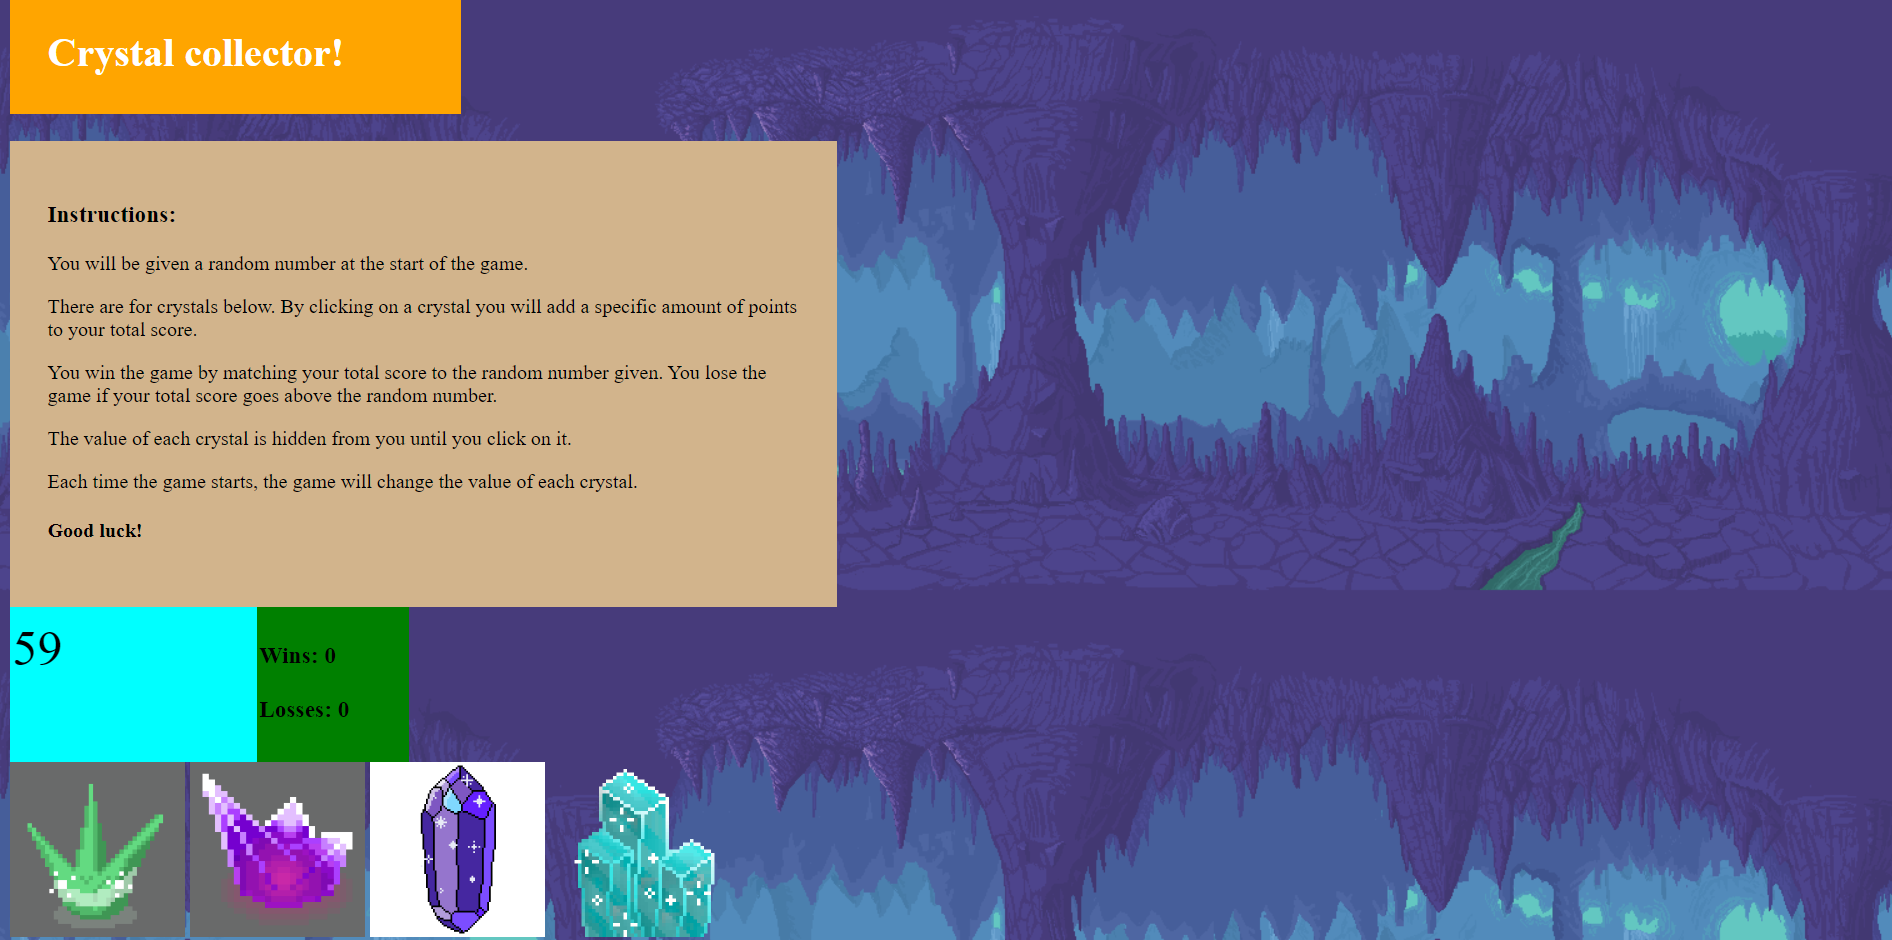
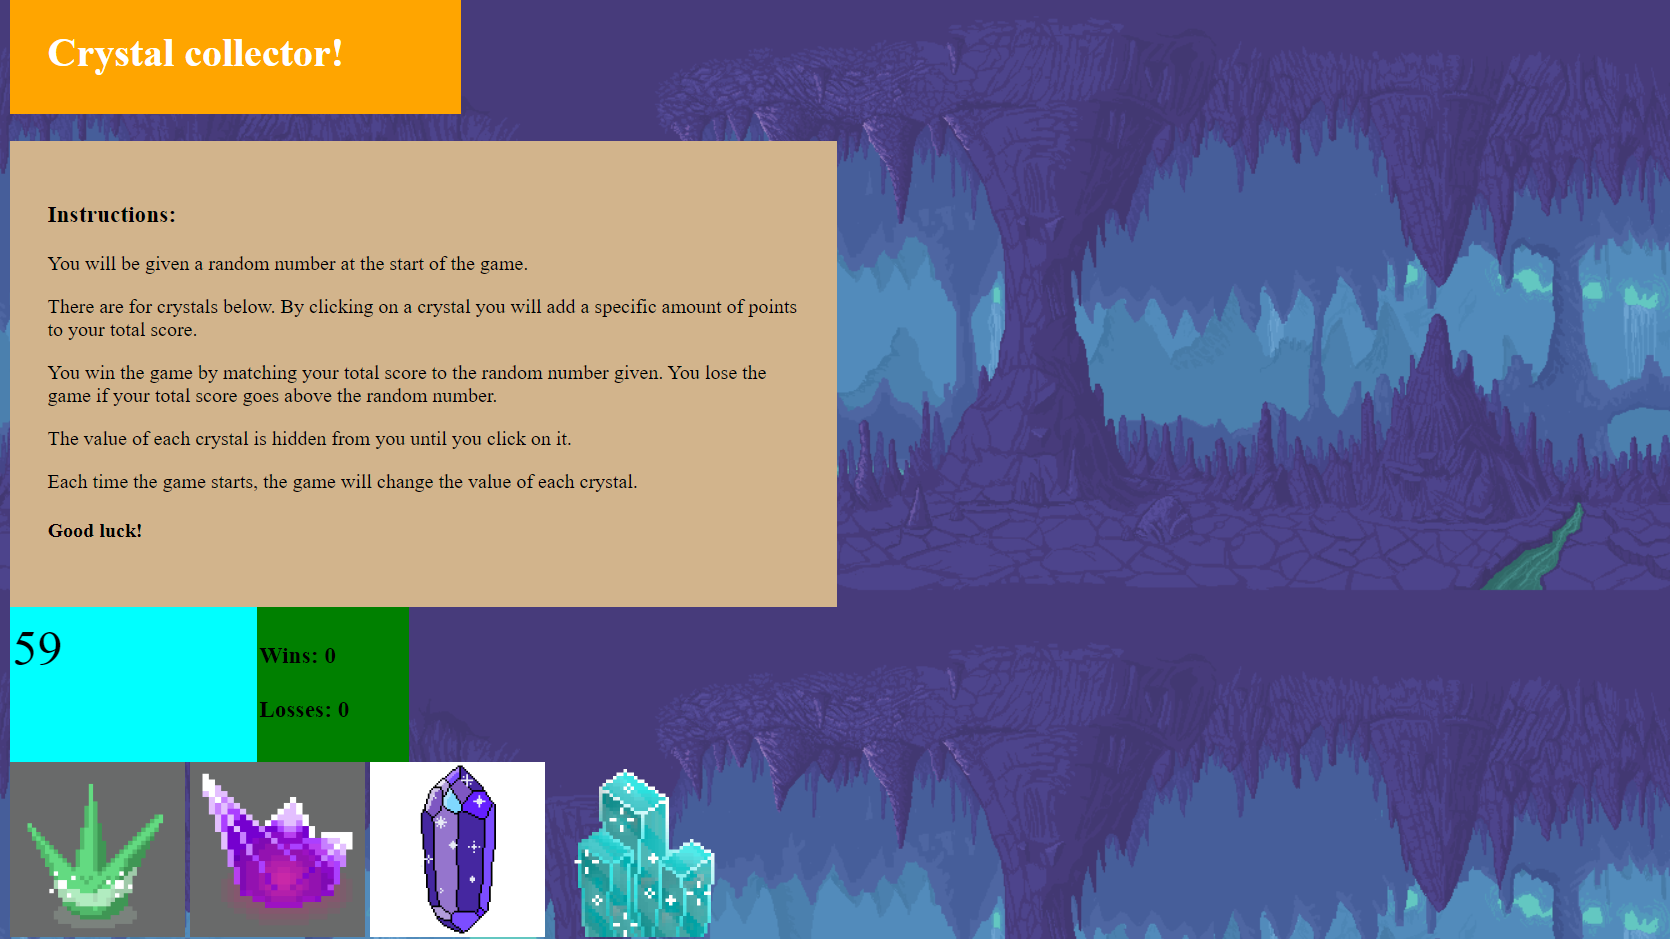
Cropped images to match width

diff --git a/portfolio.html b/portfolio.html
@@ -63,23 +63,23 @@
               <a href="https://github.com/skip1113/class-pro-1" target="_blank"><img src="assets/images/trails-pro.png"
                   width="95%" alt=""></a>
               <div class="uk-position-center">
-                <div class="uk-transition-slide-top-small">
+                <div class="uk-transition-slide-top-small" style="margin-bottom: 10px;">
                   <h4 class="uk-margin-remove">Project:</h4>
                 </div>
-                <div class="uk-transition-slide-bottom-small">
+                <div class="uk-transition-slide-bottom-small" style="margin-bottom: 10px;">
                   <h4 class="uk-margin-remove">Trails on Tap</h4>
                 </div>
               </div>
             </div>
-            <div class="column game uk-inline-clip uk-transition-toggle uk-light" tabindex="0">
-              <a href="https://github.com/skip1113/unit-4-game" target="_blank"><img src="assets/images/crystals.png"
+            <div class="column project uk-inline-clip uk-transition-toggle uk-black" tabindex="0">
+              <a href="https://github.com/skip1113/Hoot-Holla-Pro2" target="_blank"><img src="assets/images/hoot-holla.png"
                   width="95%" alt=""></a>
               <div class="uk-position-center">
-                <div class="uk-transition-slide-top-small">
-                  <h4 class="uk-margin-remove">Game:</h4>
+                <div class="uk-transition-slide-top-small" style="margin-top: 35px;">
+                  <h4 class="uk-margin-remove">Project:</h4>
                 </div>
                 <div class="uk-transition-slide-bottom-small">
-                  <h4 class="uk-margin-remove">Crystal Game</h4>
+                  <h4 class="uk-margin-remove">Hoot & Holla</h4>
                 </div>
               </div>
             </div>
@@ -142,7 +142,7 @@
               <a href="https://github.com/skip1113/FireTrain" target="_blank"><img src="assets/images/trainapp.png"
                   width="95%" alt=""></a>
               <div class="uk-position-center">
-                <div class="uk-transition-slide-top-small">
+                <div class="uk-transition-slide-top-small" style="margin-top: 20px;">
                   <h4 class="uk-margin-remove">App:</h4>
                 </div>
                 <div class="uk-transition-slide-bottom-small">
@@ -229,7 +229,7 @@
               <a href="https://github.com/skip1113/burger" target="_blank"><img
                   src="assets/images/eat-da-burger.png" width="95%" alt=""></a>
               <div class="uk-position-center">
-                <div class="uk-transition-slide-top-small">
+                <div class="uk-transition-slide-top-small" style="margin-top: 35px;">
                   <h4 class="uk-margin-remove">App:</h4>
                 </div>
                 <div class="uk-transition-slide-bottom-small">
@@ -237,15 +237,15 @@
                 </div>
               </div>
             </div>
-            <div class="column project uk-inline-clip uk-transition-toggle uk-black" tabindex="0">
-              <a href="https://github.com/skip1113/Hoot-Holla-Pro2" target="_blank"><img src="assets/images/hoot-holla.png"
+            <div class="column game uk-inline-clip uk-transition-toggle uk-light" tabindex="0">
+              <a href="https://github.com/skip1113/unit-4-game" target="_blank"><img src="assets/images/crystals.png"
                   width="95%" alt=""></a>
               <div class="uk-position-center">
                 <div class="uk-transition-slide-top-small">
-                  <h4 class="uk-margin-remove">Project:</h4>
+                  <h4 class="uk-margin-remove">Game:</h4>
                 </div>
                 <div class="uk-transition-slide-bottom-small">
-                  <h4 class="uk-margin-remove">Hoot & Holla</h4>
+                  <h4 class="uk-margin-remove">Crystal Game</h4>
                 </div>
               </div>
             </div>
@@ -262,7 +262,7 @@
 
         <div class="col l4 offset-l2 s12" id="footer-link">
           <hr>
-          <h3 class="white-text">Social Media & Resume Download</h3>
+          <h3 class="white-text">Social Media & Resume</h3>
           <h4>Skipk95@gmail.com</h4>
           <a href="https://github.com/skip1113" target="_blank"><i class="fa fa-github-square"
               style="font-size:36px" id="git-con"></i></a>
